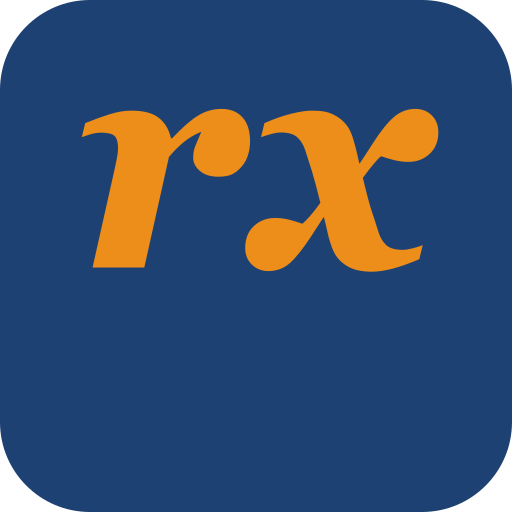
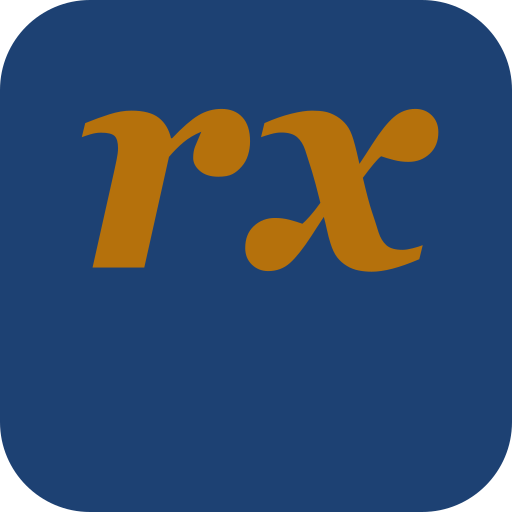
fix(a11y): WCAG AA compliance pass from Lighthouse audit
Baseline Lighthouse run on all 24 production pages found color-contrast
failing on every page (amber #ED8D1A on cream #FCFAF6 = 2.39:1, well under
the 4.5:1 small-text threshold). The amber surfaces as eyebrow text, logo
italic-rx, blog category labels, and button text — none of which had
adequate contrast.

Palette
- --accent darkened 14 L-points: 30 90% 52% (#ED8D1A bright marigold) →
  30 88% 38% (#B5710C burnt amber). Now passes 4.5:1 on cream surfaces.
- --accent-foreground flipped from cream to dark navy (220 25% 14%) so
  text-on-amber-buttons passes 5.5:1.
- The amber still reads as "warm amber" but lands closer to burnt-orange /
  copper. Visual shift is real; the alternative was 71 text-accent call
  sites needing individual overrides.

Component fixes (other Lighthouse failures)
- TrustStrip + HeroCentered: text-muted/80 → text-muted (the /80 opacity
  was the difference between 5.13:1 passing and ~3.0:1 failing on cream).
- FAQByCategory: category jump-links got px-3 py-2 so tap targets clear
  the 48x48 minimum (lighthouse tap-targets audit was at 24).
- /blog/[slug]: "Keep Reading" eyebrow promoted from <p> to <h2> to fix
  the h1→h3 heading-order skip the related-posts grid was causing.
- /blog/[slug]: dates pre-formatted in getStaticProps (with timeZone: UTC)
  to fix the React #418 hydration mismatch that triggered console errors
  on every blog post.
- /contact: replaced the mailto: form (Chrome flagged it as Mixed Content,
[…]

Changed region(s): [[0.1562, 0.1875, 0.875, 0.5312]]

diff --git a/src/pages/contact.tsx b/src/pages/contact.tsx
@@ -5,6 +5,12 @@ import { OrganizationSchema } from '@/components/seo/schemas/OrganizationSchema'
 import { Breadcrumbs } from '@/components/seo/Breadcrumbs';
 import { SectionHeader } from '@/components/sections/SectionHeader';
 
+const SUBJECT = encodeURIComponent('trtrx — general inquiry');
+const BODY = encodeURIComponent(
+  "Hi trtrx team,\n\n[Your message here]\n\nThanks,\n",
+);
+const MAILTO = `mailto:hello@trtrx.com?subject=${SUBJECT}&body=${BODY}`;
+
 export default function ContactPage() {
   return (
     <>
@@ -30,78 +36,39 @@ export default function ContactPage() {
               subtitle="General inquiries only. For medical questions, please start a consult through the Get Started flow."
             />
 
-            <form
-              action="mailto:hello@trtrx.com"
-              method="post"
-              encType="text/plain"
-              className="mx-auto mt-12 grid max-w-xl gap-5"
-            >
-              <Field label="Name" name="name" type="text" required />
-              <Field label="Email" name="email" type="email" required />
-              <Field label="Phone (optional)" name="phone" type="tel" />
-              <div>
-                <label
-                  htmlFor="message"
-                  className="block font-mono text-eyebrow uppercase tracking-tracked text-muted"
-                >
-                  Message
-                </label>
-                <textarea
-                  id="message"
-                  name="message"
-                  rows={5}
-                  required
-                  className="mt-2 w-full resize-none rounded-2xl border border-border bg-surface px-4 py-3 text-base text-text shadow-sm placeholder:text-muted/60 focus:border-accent focus:outline-none"
-                />
-              </div>
-
-              <p className="text-xs leading-relaxed text-muted">
-                This form is for general inquiries. For medical questions, please get started with a consult.
+            <div className="mx-auto mt-12 max-w-xl rounded-2xl border border-border bg-surface-alt p-8 text-center md:p-10">
+              <p className="font-mono text-[11px] uppercase tracking-tracked text-muted">
+                Email
               </p>
-
-              <div className="pt-2">
-                <button
-                  type="submit"
+              <p
+                className="mt-3 font-serif text-2xl font-medium text-primary md:text-3xl"
+                style={{ fontVariationSettings: "'opsz' 144" }}
+              >
+                hello@trtrx.com
+              </p>
+              <p className="mx-auto mt-4 max-w-md text-sm leading-relaxed text-muted">
+                Replies within one business day, often same-day. For medical
+                questions please get started with a consult instead.
+              </p>
+              <div className="mt-8 flex flex-col items-center justify-center gap-3 sm:flex-row sm:gap-4">
+                <a
+                  href={MAILTO}
                   className="inline-flex h-12 items-center justify-center rounded-full bg-accent px-7 text-[15px] font-medium text-accent-foreground transition-all hover:-translate-y-px hover:bg-accent/90"
                 >
-                  Send message
-                </button>
+                  Compose email
+                </a>
+                <a
+                  href="/how-it-works"
+                  className="inline-flex h-12 items-center justify-center rounded-full border border-primary bg-transparent px-7 text-[15px] font-medium text-primary transition-all hover:-translate-y-px hover:bg-primary hover:text-primary-foreground"
+                >
+                  Start a consult
+                </a>
               </div>
-            </form>
+            </div>
           </div>
         </section>
       </PageShell>
     </>
-  );
-}
-
-function Field({
-  label,
-  name,
-  type,
-  required,
-}: {
-  label: string;
-  name: string;
-  type: string;
-  required?: boolean;
-}) {
-  return (
-    <div>
-      <label
-        htmlFor={name}
-        className="block font-mono text-eyebrow uppercase tracking-tracked text-muted"
-      >
-        {label}
-      </label>
-      <input
-        id={name}
-        name={name}
-        type={type}
-        required={required}
-        className="mt-2 h-12 w-full rounded-full border border-border bg-surface px-5 text-base text-text shadow-sm placeholder:text-muted/60 focus:border-accent focus:outline-none"
-      />
-    </div>
   );
 }
 

diff --git a/src/pages/blog/[slug].tsx b/src/pages/blog/[slug].tsx
@@ -20,9 +20,13 @@ import {
   type BlogPost,
 } from '@/content/blog';
 
-type Props = { post: BlogPost };
+type Props = {
+  post: BlogPost;
+  /** Pre-formatted on the server so SSR/CSR don't diverge and hydrate-mismatch. */
+  lastReviewedDisplay: string;
+};
 
-export default function BlogPostPage({ post }: Props) {
+export default function BlogPostPage({ post, lastReviewedDisplay }: Props) {
   const author = getAuthor(post.authorId);
   const reviewer = getReviewer(post.reviewerId);
   const related = getRelatedBlogPosts(post.slug, 4);
@@ -86,14 +90,7 @@ export default function BlogPostPage({ post }: Props) {
                 {post.title}
               </h1>
               <p className="mt-6 flex flex-wrap items-center gap-x-3 gap-y-1 font-mono text-[11px] uppercase tracking-tracked text-muted">
-                <span>
-                  Last updated{' '}
-                  {new Date(post.lastReviewedAt).toLocaleDateString('en-US', {
-                    month: 'long',
-                    day: 'numeric',
-                    year: 'numeric',
-                  })}
-                </span>
+                <span>Last updated {lastReviewedDisplay}</span>
                 <span aria-hidden>·</span>
                 <span>{post.readMinutes} min read</span>
                 {reviewer && (
@@ -155,11 +152,7 @@ export default function BlogPostPage({ post }: Props) {
                       {reviewer.title}
                     </p>
                     <p className="mt-3 text-sm leading-relaxed text-text">
-                      Last reviewed:{' '}
-                      {new Date(post.lastReviewedAt).toLocaleDateString(
-                        'en-US',
-                        { month: 'long', day: 'numeric', year: 'numeric' },
-                      )}
+                      Last reviewed: {lastReviewedDisplay}
                     </p>
                   </div>
                 )}
@@ -172,7 +165,7 @@ export default function BlogPostPage({ post }: Props) {
         {related.length > 0 && (
           <section className="bg-surface-alt">
             <div className="container py-16 md:py-20">
-              <p className="eyebrow mb-8 text-center">Keep Reading</p>
+              <h2 className="eyebrow mb-8 text-center">Keep Reading</h2>
               <ul className="mx-auto grid max-w-6xl grid-cols-1 gap-5 sm:grid-cols-2 lg:grid-cols-4">
                 {related.map((p) => (
                   <li key={p.slug}>
@@ -221,5 +214,9 @@ export const getStaticProps: GetStaticProps<Props> = async ({ params }) => {
   const slug = params?.slug as string;
   const post = getBlogPostBySlug(slug);
   if (!post) return { notFound: true };
-  return { props: { post }, revalidate: 86400 };
+  const lastReviewedDisplay = new Date(post.lastReviewedAt).toLocaleDateString(
+    'en-US',
+    { month: 'long', day: 'numeric', year: 'numeric', timeZone: 'UTC' },
+  );
+  return { props: { post, lastReviewedDisplay }, revalidate: 86400 };
 };

diff --git a/src/styles/globals.css b/src/styles/globals.css
@@ -4,11 +4,12 @@
 
 @layer base {
   :root {
-    /* Palette — Modern Amber: ocean blue + warm amber on light cream */
+    /* Palette — Modern Amber: ocean blue + burnt amber on light cream */
+    /* Amber darkened 14pts in L (52→38) so text-accent passes 4.5:1 on cream */
     --primary: 215 60% 28%;          /* #1D4173 ocean blue */
     --primary-foreground: 36 35% 97%;
-    --accent: 30 90% 52%;            /* #ED8D1A warm amber */
-    --accent-foreground: 36 35% 97%;
+    --accent: 30 88% 38%;            /* #B5710C burnt amber (WCAG AA on cream) */
+    --accent-foreground: 220 25% 14%; /* #1B2233 dark navy text on amber */
     --surface: 36 35% 97%;           /* #FCFAF6 light cream */
     --surface-alt: 36 28% 93%;       /* #F1EBE0 deeper cream */
     --text: 220 25% 14%;             /* #1B2233 dark text */

diff --git a/src/components/sections/TrustStrip.tsx b/src/components/sections/TrustStrip.tsx
@@ -17,7 +17,7 @@ export function TrustStrip() {
               className="flex flex-col items-center text-center md:border-l md:border-border/70 md:first:border-l-0"
             >
               <span className="font-serif text-base text-primary">{item.label}</span>
-              <span className="mt-1 font-mono text-[11px] uppercase tracking-tracked text-muted/80">
+              <span className="mt-1 font-mono text-[11px] uppercase tracking-tracked text-muted">
                 {item.sub}
               </span>
             </li>

diff --git a/src/components/sections/FAQByCategory.tsx b/src/components/sections/FAQByCategory.tsx
@@ -49,7 +49,7 @@ export function FAQByCategory() {
               <a
                 key={cat}
                 href={`#${cat}`}
-                className="font-mono text-[11px] uppercase tracking-tracked text-muted underline-offset-4 transition-colors hover:text-accent"
+                className="inline-block px-3 py-2 font-mono text-[11px] uppercase tracking-tracked text-muted underline-offset-4 transition-colors hover:text-accent"
               >
                 {CATEGORY_TITLES[cat]}
               </a>

diff --git a/src/components/sections/HeroCentered.tsx b/src/components/sections/HeroCentered.tsx
@@ -39,7 +39,7 @@ export function HeroCentered() {
           </Link>
         </div>
 
-        <p className="mt-8 text-eyebrow uppercase tracking-tracked text-muted/80 animate-fade-up [animation-delay:240ms]">
+        <p className="mt-8 text-eyebrow uppercase tracking-tracked text-muted animate-fade-up [animation-delay:240ms]">
           Quest &amp; Labcorp partners · FSA-eligible · 60-day guarantee
         </p>
 

diff --git a/docs/HANDOFF.md b/docs/HANDOFF.md
@@ -45,10 +45,10 @@ HSL tokens in `src/styles/globals.css`. After comparing 12 preview directions th
 | Token | HSL | Hex | Use |
 |---|---|---|---|
 | `--primary` | `215 60% 28%` | `#1D4173` | ocean blue — headlines, primary buttons, footer band, "trt" in logo |
-| `--accent` | `30 90% 52%` | `#ED8D1A` | warm amber — CTAs, italic emphasis words, eyebrow text, italic "rx" in logo |
+| `--accent` | `30 88% 38%` | `#B5710C` | burnt amber — CTAs, italic emphasis words, eyebrow text, italic "rx" in logo. **Darkened 14 L-points from initial `30 90% 52%` so text-accent passes WCAG AA (4.5:1) on cream — accessibility, not visual preference.** |
 | `--surface` | `36 35% 97%` | `#FCFAF6` | light cream — default page background |
 | `--surface-alt` | `36 28% 93%` | `#F1EBE0` | deeper cream — banded sections |
-| `--text` | `220 25% 14%` | `#1B2233` | dark text body |
+| `--text` | `220 25% 14%` | `#1B2233` | dark text body — also used as `--accent-foreground` (dark navy on amber buttons, 5.5:1 contrast) |
 | `--muted` | `30 10% 42%` | `#74695E` | warm gray — subheads, captions |
 | `--border` | `36 25% 89%` | `#EBE2D1` | hairlines, card edges |
 
